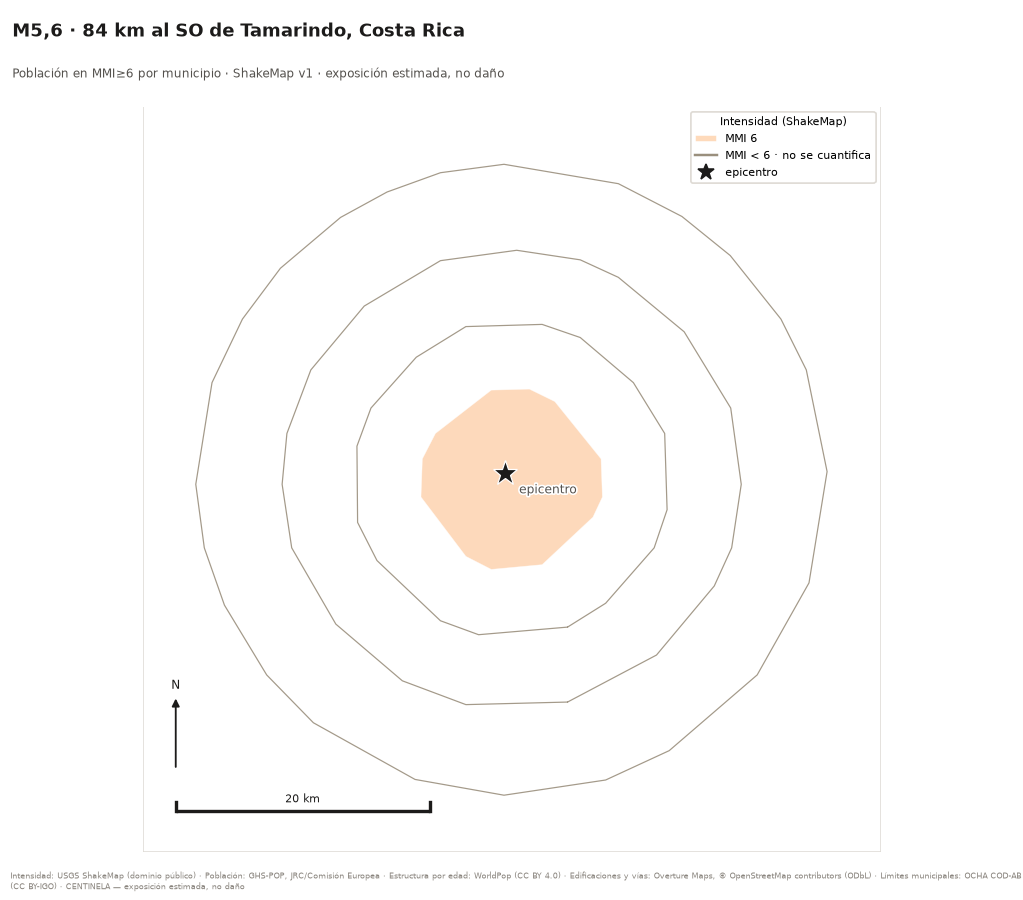
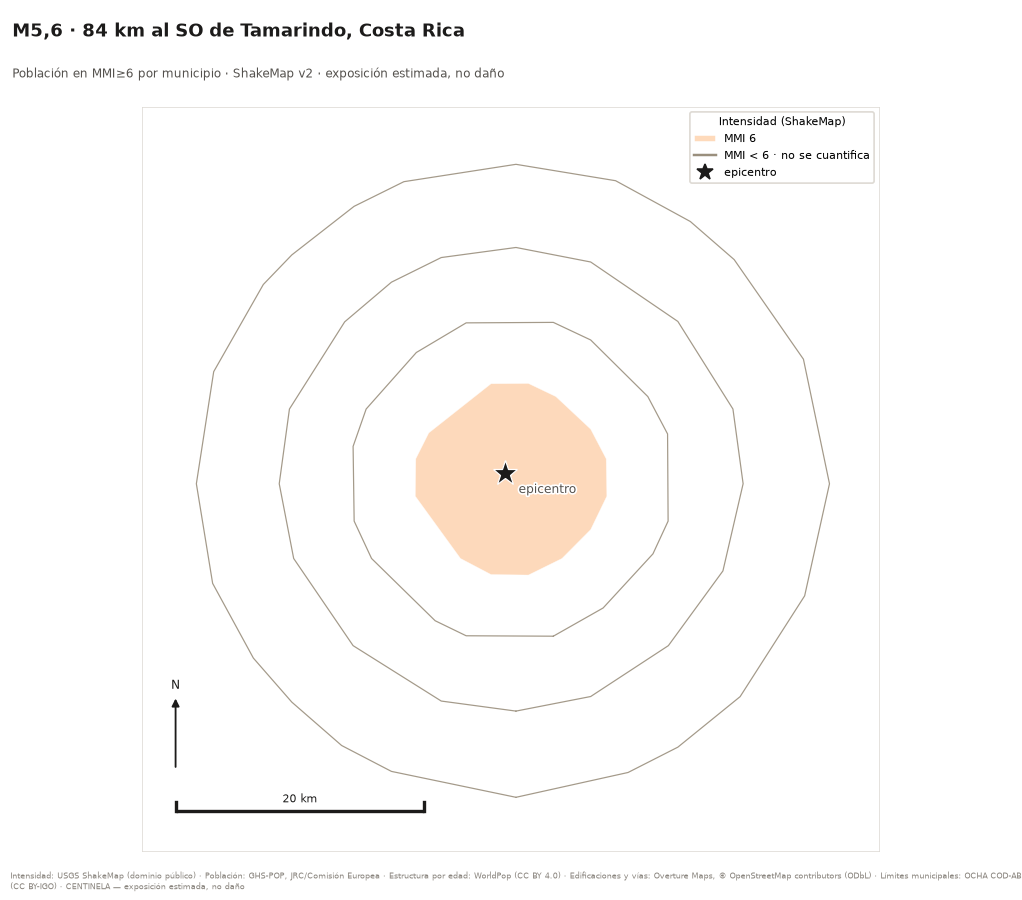
P3: reporte de us6000tymj

diff --git a/reports/us6000tymj/report.md b/reports/us6000tymj/report.md
@@ -48,7 +48,7 @@ Discrepancia entre GHS-POP y WorldPop: **no se pudo medir**. Ninguna celda dentr
 
 ## Cambios frente a la versión anterior
 
-- ShakeMap: v0 → v1
+- ShakeMap: v1 → v2
 - Ninguna cifra publicada cambia frente a la versión anterior.
 
 ## Descargas
@@ -58,10 +58,10 @@ Discrepancia entre GHS-POP y WorldPop: **no se pudo medir**. Ninguna celda dentr
 
 ## Procedencia
 
-- ShakeMap consumido: **v1**
+- ShakeMap consumido: **v2**
 - Ground Failure consumido: **ninguno** (no publicado aún)
 - Manifiesto de exposición: [`cri-v0.4`](https://github.com/sforero77/CENTINELA/blob/main/data/manifests/CRI.yaml)
-- Pipeline: `0.1.0` · Generado: 2026-09-30T22:15:59Z
+- Pipeline: `0.1.0` · Generado: 2026-09-30T22:35:48Z
 
 ## Advertencias
 
